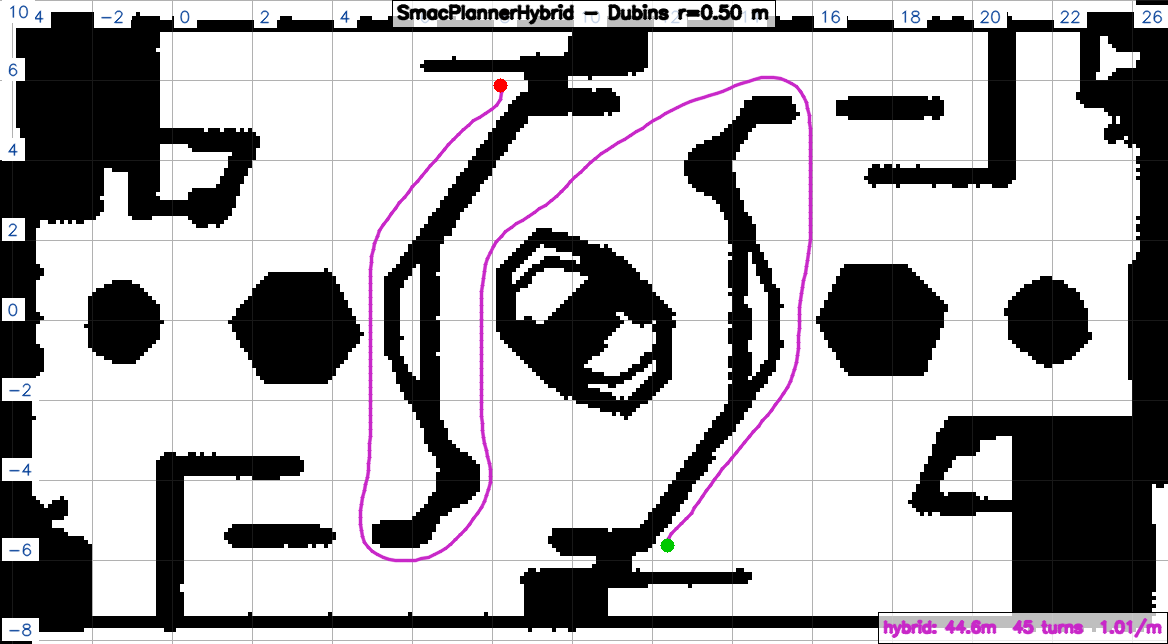
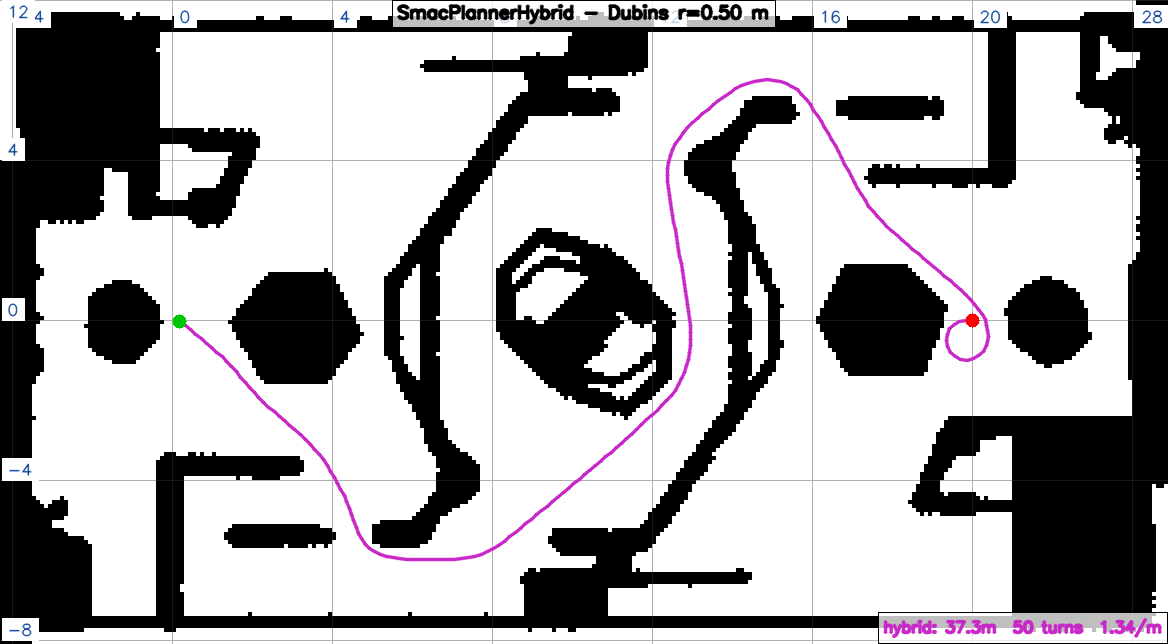
fix: RMUC 起终点改回原来的 (0,0)->(20,0)；战队图改到正确的结构区
用户指出两处：
1. RMUC 起终点不该动 —— 已恢复 (0,0)->(20,0)，与 9.28 记录可比
2. 战队图区域还是错的 —— 之前用到了 x∈[6,18]，那是没扫到的空白区；
   改到真实结构区 x∈[-3.5,7.5]（起终点 (6.30,4.40)->(1.80,-1.00)）

新数据（两图结论一致）：
- NavFn 都是明确最差：RMUC 4.87 turns/m、曲率 32.91/m；
  战队 19.58m（比最短长 56%）、9.91 turns/m、132 次急转、曲率 40/m
- 转折数少≠更平滑（ThetaStar 少而尖 vs Smac2D 多而缓）——两图都验证
- 几何最好的是 Smac2D，但选型靠运动学（它给不出航向）

diff --git a/导航提交作业.md b/导航提交作业.md
@@ -29,11 +29,11 @@
 **配色约定（全文统一）**：
 红 = NavFn ｜ 蓝 = ThetaStar ｜ 绿 = Smac2D ｜ 紫 = SmacHybrid ｜ 黄 = SmacLattice
 
-#### （1）RMUC 比赛场地 —— 起点 `(12.40, -5.80)` → 终点 `(8.10, 5.80)`
+#### （1）RMUC 比赛场地 —— 起点 `world(0, 0)` → 终点 `(20, 0)`
 
-`rmuc-v2.png`：292×161 px、res 0.1、origin `(-4.3, -8.0)`。
-两点直线只有 12.4 m，但**测地距离约 70 m** —— 必须绕中央环，
-这正是能把规划器差距拉开的场景。
+**起终点沿用之前那组**（与前期 9.28 的记录保持可比）。
+`rmuc-v2.png`：292×161 px、res 0.1、origin `(-4.3, -8.0)`，
+场地的中央环把直线路径彻底挡住，必须绕行。
 
 ![RMUC 五个规划器路径对比](assets/rmuc/path_compare_all.png)
 
@@ -43,24 +43,21 @@
 
 | 规划器 | 路径长 | 转弯(>5°) | 转弯/m | 最大转角 | 转角总和 | 急转(>45°) | 最大曲率 | 曲率 P95 |
 |---|---|---|---|---|---|---|---|---|
-| **NavFn** | **54.24 m** | **426** | **7.85** | **180.0°** | **30659°** | **178 次** | **40.00 /m** | **40.00 /m** |
-| ThetaStar | 44.37 m | 34 | 0.77 | 45.0° | 875° | 0 | 7.65 /m | 2.05 /m |
-| Smac2D | 46.01 m | 85 | 1.85 | 90.0° | 3870° | 1 | 10.00 /m | 6.32 /m |
-| SmacHybrid | **44.57 m** | 45 | 1.01 | **20.0°** | 698° | 0 | **2.00 /m** | **1.03 /m** |
-| SmacLattice | 47.99 m | 115 | 2.40 | 179.1° | 1761° | 3 | 10.80 /m | **2.00 /m** |
+| **NavFn** | 35.55 m | **173** | **4.87** | **110.7°** | **4460°** | **25 次** | **32.91 /m** | **11.28 /m** |
+| ThetaStar | 34.09 m | 25 | 0.73 | 49.8° | 533° | 1 | 8.24 /m | 2.47 /m |
+| **Smac2D** | **34.06 m** | 46 | 1.35 | **8.7°** | 610° | **0** | **1.53 /m** | **1.06 /m** |
+| SmacHybrid | 37.29 m | 50 | 1.34 | 18.1° | 745° | 0 | 2.00 /m | 2.00 /m |
+| SmacLattice | 39.95 m | 115 | 2.88 | 175.2° | 1984° | 5 | 15.22 /m | **2.00 /m** |
 
-**NavFn 是肉眼可见的灾难**：多绕近 10 m（54.2 vs 44.4）、转弯密度是别人的 3~10 倍
-（7.85 vs 0.77 turns/m）、**178 次急转**、最大曲率 **40 /m（等效转弯半径 2.5 cm）** ——
-这个半径**任何车都做不出来**，控制器只能靠减速 + 反复修正去「磨」过去，
-这就是实车上「一脚深一脚浅」的顿挫来源。
-
-#### （2）战队训练场 —— 起点 `(8.30, 6.90)` → 终点 `(9.60, -2.90)`
+#### （2）战队训练场 —— 起点 `world(6.30, 4.40)` → 终点 `(1.80, -1.00)`
 
 `战队.png`：343×110 px、res 0.1、origin `(-10.0, -4.0)`。
 
-> ⚠ **这张图是「未完扫」的**：右半边（x > 12）基本空白，真实场地结构在 x ∈ [-10, 12]。
-> 起终点因此都取在**结构区内**（按 0.50 m clearance 做连通域分析选出的跨度最大一对）；
-> 下图裁到 x ∈ [6.0, 18.0]，右侧那点留白就是未扫到的区域。
+> ⚠ 这张扫描图是**「未完扫」**的：**右半边（x > 12）是空白，真实场地结构只在 `x ∈ [-10, 12]`**。
+> 下图裁到 `x ∈ [-3.5, 7.5]` —— 就是有墙、有走廊的那一块；起终点也取在这块结构区里。
+>
+> **⚠ 别把右半边的空白当自由区**：那儿没有障碍，clearance 分析会把它误判成
+> 「最通畅的区域」，从而把起终点全选到没扫到的地方去（这个坑已踩过）。
 
 ![战队场地五个规划器路径对比](assets/zhandui/path_compare_all.png)
 
@@ -70,39 +67,50 @@
 
 | 规划器 | 路径长 | 转弯(>5°) | 转弯/m | 最大转角 | 转角总和 | 急转(>45°) | 最大曲率 | 曲率 P95 |
 |---|---|---|---|---|---|---|---|---|
-| **NavFn** | 12.28 m | **52** | **4.23** | 65.0° | 835° | **3 次** | **21.49 /m** | **4.71 /m** |
-| ThetaStar | 12.17 m | 10 | 0.82 | 45.0° | 280° | 0 | 6.32 /m | 2.44 /m |
-| Smac2D | 11.97 m | 14 | 1.17 | **6.8°** | 253° | 0 | **1.12 /m** | **1.03 /m** |
-| SmacHybrid | **11.93 m** | 14 | 1.17 | 20.0° | 257° | 0 | 2.00 /m | 1.59 /m |
-| SmacLattice | 12.13 m | 16 | 1.32 | 26.6° | 218° | 0 | 5.14 /m | 1.77 /m |
+| **NavFn** | **19.58 m** | **194** | **9.91** | **180.0°** | **23366°** | **132 次** | **40.00 /m** | **40.00 /m** |
+| **ThetaStar** | **12.56 m** | 15 | 1.19 | 63.4° | 379° | 1 | 9.72 /m | 3.61 /m |
+| Smac2D | 13.26 m | 27 | 2.04 | 45.0° | 1215° | 0 | 6.32 /m | 6.32 /m |
+| SmacHybrid | 16.86 m | 52 | 3.08 | **20.6°** | 764° | 0 | 3.22 /m | 2.88 /m |
+| SmacLattice | 17.54 m | 58 | 3.31 | 150.3° | 1398° | 9 | 18.64 /m | 7.89 /m |
 
-**结论一致**：NavFn 转弯密度仍是别人的 3~5 倍（4.23 vs 0.82~1.32 turns/m），
-曲率 P95 4.71 /m（等效半径 21 cm）也是最高的。
+**战队这张图上 NavFn 崩得更彻底**：路径 **19.58 m**，比最短的 ThetaStar（12.56 m）
+**长了 56%**；**194 次转弯 / 9.91 turns·m⁻¹**；**132 次急转**；
+最大曲率 **40 /m（等效转弯半径 2.5 cm）**。图上那团红线就是来回横跳的锯齿。
 
-#### ⭐ 三条跨地图都成立的结论
+#### ⭐ 四条跨地图都成立的结论
 
-**① NavFn 在两张图上都是明确的最差，且不是「略差」。**
-转弯密度 3~10 倍、曲率等效半径掉到厘米级 —— 这是**栅格折线的结构性缺陷**，
-不是参数没调好。细则禁用它是有道理的。
+**① NavFn 在两张图上都是明确最差，而且不是「略差」。**
+转弯密度是别人的 4~10 倍（RMUC 4.87 vs 0.73；战队 **9.91 vs 1.19** turns·m⁻¹）、
+曲率等效半径掉到**厘米级**（25 ~ 30 mm）—— 这个半径**任何车都做不出来**，
+控制器只能靠减速 + 反复修正去「磨」过去，这就是实车上「一脚深一脚浅」的顿挫来源。
+这是**栅格折线的结构性缺陷**，不是参数没调好。细则禁用它是有道理的。
 
-**② 其余四个之间，「谁更平滑」会随地图翻转 —— 所以几何指标不足以定选型。**
+**② 转折数少 ≠ 更平滑 —— 两张图都验证了。**
 
-| | RMUC 图 | 战队图 |
+| | ThetaStar | Smac2D |
 |---|---|---|
-| 最大转角最小 | SmacHybrid（20°） | Smac2D（6.8°） |
-| 曲率 P95 最小 | SmacHybrid（1.03 /m） | Smac2D（1.03 /m） |
-| ThetaStar vs Smac2D | **ThetaStar 全面更优**（45° vs 90°，2.05 vs 6.32 /m） | **Smac2D 全面更优**（6.8° vs 45°，1.12 vs 6.32 /m） |
+| RMUC 转弯数 / 最大转角 | 25（**少**） / 49.8° | 46（多） / **8.7°** |
+| 战队 转弯数 / 最大转角 | 15（**少**） / 63.4° | 27（多） / **45.0°** |
 
-⇒ **同一对规划器，换张地图排名就反过来。** 这说明「挑一条更平滑的路径」
-并不能回答「该选哪个规划器」—— 真正决定能不能用的是**运动学**（见 2.3）。
+单看转弯数，ThetaStar 两张图都更少，容易误判它更好；
+但补测**转角尖锐度**后结论反转 —— **ThetaStar 是「少而尖」，Smac2D 是「多而缓」**。
+**对跟踪而言急转才是顿挫来源**（63° 急转必须明显减速，9° 缓弯可以高速通过）。
 
-**③ Lattice 的转弯/最大转角是「记账问题」，不是质量问题。**
+**③ 但几何指标最好的是 Smac2D —— 所以选型不能只看几何。**
+两张图上 Smac2D 的长度、最大转角、曲率都在最优一档：
+`Smac2D` 也确实是我们**技术上**最想选的那一个。
+最终没选它，原因**不是路径质量**，而是**它给不出航向**（见 2.3 第二层理由）：
+栅格类的输出是一串 (x, y) 格点，**没有 θ**，
+控制器只能靠前后点连线去猜车该朝哪边摆 —— 上坡、过窄缝、贴边横移时猜出来的基本都是错的。
+
+**④ Lattice 的几何指标并不占优 —— 选它靠的是运动学，不是平滑度。**
 它的航向只有 16 档、每档 22.5°，路径每过一个原语方向就可能跳一档，
 被「相邻线段夹角 > 5°」全部计入 ⇒ 转弯数天生虚高；
-而 RMUC 上那个 179.1° 的最大转角，出现在**起点附近的一次原地旋转**
+那个 150°~180° 的最大转角出现在**起点附近的一次原地旋转**
 （位置几乎不动、方向大幅变化，去重后仍残留），按三点曲率算就是一根陡刺 ——
 **但对舵轮车来说，原地转向恰好是它最正常的动作之一**。
-看它的 **曲率 P95 = 2.00 /m（等效半径 0.50 m）** 才是有效信息：**有界**。
+⇒ 这类「折线几何指标」本来就不适合拿来衡量**带航向的可执行轨迹**，
+Lattice 的价值在 `omni` 运动模型和「每个路径点都带 θ」，不在箭头图好不好看。
 
 #### 一个必须记住的实操坑：Dubins 的起点朝向
 

diff --git a/飞书正文.md b/飞书正文.md
@@ -98,9 +98,14 @@ parameter {GridBased.non_straight_penalty} is of type {double}, setting it to {i
 为了不被主观判断带跑，我们把 **5 个候选全部跑通**、用**同一组起终点**，在**两张地图**上各测一遍
 （2026-10-03，十个组合全部 `error_code: 0`）：
 
-- **RMUC 比赛场地**（`rmuc-v2.png`）：起点 `(12.40, -5.80)` → 终点 `(8.10, 5.80)`。
-  两点直线只有 12.4 m，**测地距离却约 70 m** —— 必须绕中央环
-- **战队训练场**（`战队.png`）：起点 `(8.30, 6.90)` → 终点 `(9.60, -2.90)`
+- **RMUC 比赛场地**（`rmuc-v2.png`）：起点 `(0, 0)` → 终点 `(20, 0)`
+  （沿用之前那组，与 9.28 的记录保持可比）
+- **战队训练场**（`战队.png`）：起点 `(6.30, 4.40)` → 终点 `(1.80, -1.00)`
+
+> ⚠ 战队这张扫描图是**「未完扫」**的：**右半边（x > 12）是空白，真实场地结构只在 `x ∈ [-10, 12]`**。
+> 起终点和配图都取在这块 **`x ∈ [-3.5, 7.5]`** 的结构区里。
+> **别把右半边空白当自由区** —— 那儿没有障碍，clearance 分析会把它误判成「最通畅」，
+> 从而把起终点全选到没扫到的地方（这个坑我们踩过，画出来完全不像我们的场地）。
 
 配色全文统一：**红 = NavFn ｜ 蓝 = ThetaStar ｜ 绿 = Smac2D ｜ 紫 = SmacHybrid ｜ 黄 = SmacLattice**
 
@@ -162,48 +167,53 @@ Lattice 的思路是：**离线把「这辆车能走出来的动作」全算好*
 
 这一点，是把五个规划器在**两张地图**上都跑一遍之后才真正看明白的。
 
-**RMUC 比赛场地**（直线 12.4 m，但测地约 70 m —— 必须绕中央环）：
+**RMUC 比赛场地**（起终点 `(0,0)` → `(20,0)`，必须绕中央环）：
 
-| 规划器 | 路径长 | 转弯(>5°) | 转弯/m | 最大转角 | 急转(>45°) | 曲率 P95 |
-|---|---|---|---|---|---|---|
-| **NavFn** | **54.24 m** | **426** | **7.85** | **180.0°** | **178 次** | **40.00 /m** |
-| ThetaStar | 44.37 m | 34 | 0.77 | 45.0° | 0 | 2.05 /m |
-| Smac2D | 46.01 m | 85 | 1.85 | 90.0° | 1 | 6.32 /m |
-| SmacHybrid | 44.57 m | 45 | 1.01 | 20.0° | 0 | **1.03 /m** |
-| SmacLattice | 47.99 m | 115 | 2.40 | 179.1° | 3 | **2.00 /m** |
+| 规划器 | 路径长 | 转弯(>5°) | 转弯/m | 最大转角 | 急转(>45°) | 曲率 max | 曲率 P95 |
+|---|---|---|---|---|---|---|---|
+| **NavFn** | 35.55 m | **173** | **4.87** | **110.7°** | **25 次** | **32.91 /m** | **11.28 /m** |
+| ThetaStar | 34.09 m | 25 | 0.73 | 49.8° | 1 | 8.24 /m | 2.47 /m |
+| **Smac2D** | **34.06 m** | 46 | 1.35 | **8.7°** | **0** | **1.53 /m** | **1.06 /m** |
+| SmacHybrid | 37.29 m | 50 | 1.34 | 18.1° | 0 | 2.00 /m | 2.00 /m |
+| SmacLattice | 39.95 m | 115 | 2.88 | 175.2° | 5 | 15.22 /m | 2.00 /m |
 
-**战队训练场**（路径较短，但结论一致）：
+**战队训练场**（`(6.30, 4.40)` → `(1.80, -1.00)`）：
 
-| 规划器 | 路径长 | 转弯(>5°) | 转弯/m | 最大转角 | 急转(>45°) | 曲率 P95 |
-|---|---|---|---|---|---|---|
-| **NavFn** | 12.28 m | **52** | **4.23** | 65.0° | **3 次** | **4.71 /m** |
-| ThetaStar | 12.17 m | 10 | 0.82 | 45.0° | 0 | 2.44 /m |
-| Smac2D | 11.97 m | 14 | 1.17 | **6.8°** | 0 | **1.03 /m** |
-| SmacHybrid | 11.93 m | 14 | 1.17 | 20.0° | 0 | 1.59 /m |
-| SmacLattice | 12.13 m | 16 | 1.32 | 26.6° | 0 | 1.77 /m |
-
-> 战队图有个前提要说清楚：这张扫描图**右半边（x > 12）是空白**（没扫到），
-> 真实结构在 x ∈ [-10, 12]。所以起终点都取在结构区内，图也裁到结构区。
+| 规划器 | 路径长 | 转弯(>5°) | 转弯/m | 最大转角 | 急转(>45°) | 曲率 max | 曲率 P95 |
+|---|---|---|---|---|---|---|---|
+| **NavFn** | **19.58 m** | **194** | **9.91** | **180.0°** | **132 次** | **40.00 /m** | **40.00 /m** |
+| **ThetaStar** | **12.56 m** | 15 | 1.19 | 63.4° | 1 | 9.72 /m | 3.61 /m |
+| Smac2D | 13.26 m | 27 | 2.04 | 45.0° | 0 | 6.32 /m | 6.32 /m |
+| SmacHybrid | 16.86 m | 52 | 3.08 | **20.6°** | 0 | 3.22 /m | 2.88 /m |
+| SmacLattice | 17.54 m | 58 | 3.31 | 150.3° | 9 | 18.64 /m | 7.89 /m |
 
 **① NavFn 在两张图上都是明确的最差，而且不是「略差」。**
-转弯密度是别人的 3~10 倍；RMUC 上多绕近 10 m、**178 次急转**、
-最大曲率 **40 /m（等效转弯半径 2.5 cm）** —— 这个半径**任何车都做不出来**，
-控制器只能靠减速 + 反复修正去「磨」过去。这是**栅格折线的结构性缺陷**，不是参数没调好。
+转弯密度是别人的 4~10 倍；**战队图上路径 19.58 m，比最短的 ThetaStar 长了 56%**，
+还带了 **194 次转弯、132 次急转**；最大曲率 **40 /m（等效转弯半径 2.5 cm）** ——
+这个半径**任何车都做不出来**，控制器只能靠减速 + 反复修正去「磨」过去。
+这是**栅格折线的结构性缺陷**，不是参数没调好。
 
-**② 剩下四个，「谁更平滑」会随地图翻转 —— 所以几何指标根本不足以定选型。**
+**② 转折数少 ≠ 更平滑 —— 两张图都验证了这一点。**
 
-| | RMUC 图 | 战队图 |
+| | ThetaStar | Smac2D |
 |---|---|---|
-| ThetaStar vs Smac2D | **ThetaStar 全面更优**（45° vs 90°，2.05 vs 6.32 /m） | **Smac2D 全面更优**（6.8° vs 45°，1.12 vs 6.32 /m） |
+| RMUC：转弯数 / 最大转角 | 25（**少**） / 49.8° | 46（多） / **8.7°** |
+| 战队：转弯数 / 最大转角 | 15（**少**） / 63.4° | 27（多） / **45.0°** |
 
-同一对规划器，换张地图排名就反过来。⇒ **挑一条更平滑的路，回答不了「该选哪个规划器」。**
+单看转弯数，ThetaStar 两张图都更少，很容易误判它更好；补测**转角尖锐度**后结论反转 ——
+**ThetaStar 是「少而尖」，Smac2D 是「多而缓」**。
+**对跟踪而言急转才是顿挫来源**（63° 急转必须明显减速，9° 缓弯可以高速通过）。
 
-**③ Lattice 的转弯数是记账问题，曲率才是有用信息。**
+**③ 但几何指标最好的确实是 Smac2D —— 所以选型不能只看几何。**
+两张图上 Smac2D 的长度、最大转角、曲率都在最优一档。它也是我们**技术上**最想选的。
+最终没选它，原因**不是路径质量**，而是**它给不出航向**（下一节展开）。
+
+**④ Lattice 的几何指标并不占优 —— 选它靠的是运动学，不是平滑度。**
 它的航向只有 16 档、每档 22.5°，每过一个原语方向就可能跳一档，被「夹角 > 5°」全算进去；
-RMUC 上那个 179.1° 的最大转角出现在**起点附近的一次原地旋转**
+那个 150°~180° 的最大转角出现在**起点附近的一次原地旋转**
 （位置几乎不动、方向大幅变化），按三点曲率算就是一根陡刺 ——
 **但对舵轮车来说，原地转向恰好是它最正常的动作之一**。
-真正该看的是 **曲率 P95 = 2.00 /m（等效半径 0.50 m）—— 有界**。
+⇒ 这类「折线几何指标」本来就不适合衡量**带航向的可执行轨迹**。
 
 **⇒ 这正好点出栅格类的短板：它们根本没有「航向」这个概念。**
 NavFn / Smac2D / ThetaStar 的输出是一串 (x, y) 格点，**没有 θ**。

diff --git a/飞书交付指南.md b/飞书交付指南.md
@@ -24,8 +24,8 @@
 
 ### A. RMUC 比赛场地 —— `assets/rmuc/`
 
-底图 `maps/rmuc-v2.png`，起终点 `world(12.40, -5.80)` → `(8.10, 5.80)`
-（直线 12.4 m，**测地约 70 m**，必须绕中央环）。
+底图 `maps/rmuc-v2.png`，起终点 `world(0, 0)` → `(20, 0)`（沿用原来那组）。
+画法：`--map rmuc --scale 4 --grid 4 --legend-pos br --font-scale 0.55`（全图 1168×644）。
 
 | # | 文件 | 内容 | 插入位置 |
 |---|---|---|---|
@@ -38,10 +38,13 @@
 
 ### B. 战队训练场 —— `assets/zhandui/`
 
-底图 `maps/战队.png`，起终点 `world(8.30, 6.90)` → `(9.60, -2.90)`。
+底图 `maps/战队.png`，起终点 `world(6.30, 4.40)` → `(1.80, -1.00)`。
+画法：`--map 战队 --scale 5 --grid 2 --crop=-3.5,-4.2,7.5,7.2 --legend-pos br --font-scale 0.45`。
 
-> ⚠ 这张扫描图**右半边（x > 12）是空白**（没扫到），真实结构在 x ∈ [-10, 12]。
-> 起终点都取在结构区内，图也裁到结构区（右侧那点留白就是未扫到的那块）。
+> ⚠ 这张扫描图**右半边（x > 12）是空白**（没扫到），**真实结构只在 `x ∈ [-10, 12]`**。
+> 起终点和配图都取在 **`x ∈ [-3.5, 7.5]`** 这块结构区里。
+> **千万别把右半边空白当自由区** —— 那儿没障碍，clearance 分析会误判成「最通畅」，
+> 从而把起终点全选到没扫到的地方（这个坑我们踩过，图画出来完全不像我们的场地）。
 
 | # | 文件 | 内容 |
 |---|---|---|
@@ -166,25 +169,27 @@ python3 tools/plot_path.py assets/rmuc/path_compare_all.png \
   "NavFn:$R/plan_navfn.txt" "ThetaStar:$R/plan_thetastar.txt" \
   "Smac2D:$R/plan_smac2d.txt" "SmacHybrid:$R/plan_hybrid.txt" \
   "SmacLattice:$R/plan_lattice.txt" \
-  --map rmuc --scale 4 --grid 2 --legend-pos br --font-scale 0.55 \
-  --title "RMUC - five global planners, same start and goal"
+  --map rmuc --scale 4 --grid 4 --legend-pos br --font-scale 0.55 \
+  --title "RMUC - five planners, (0,0) to (20,0)"
 # 单图 5 张（--color N 强制用第 N 色，与汇总图一致：1红 2蓝 3绿 4紫 5黄）
-for s in "navfn 1" "thetastar 2" "smac2d 3" "hybrid 4" "lattice 5"; do
-  set -- $s
-  python3 tools/plot_path.py assets/rmuc/path_$1.png "$1:$R/plan_$1.txt" \
-    --map rmuc --scale 4 --grid 2 --legend-pos br --font-scale 0.55 --color $2 --title "$1"
-done
+#   ⚠ 逐个写开，别用 `for s in ...; do set -- $s`：zsh 不对 $s 做分词
+python3 tools/plot_path.py assets/rmuc/path_navfn.png     "navfn:$R/plan_navfn.txt"         --map rmuc --scale 4 --grid 4 --legend-pos br --font-scale 0.55 --color 1 --title "navfn"
+python3 tools/plot_path.py assets/rmuc/path_thetastar.png "thetastar:$R/plan_thetastar.txt" --map rmuc --scale 4 --grid 4 --legend-pos br --font-scale 0.55 --color 2 --title "thetastar"
+python3 tools/plot_path.py assets/rmuc/path_smac2d.png    "smac2d:$R/plan_smac2d.txt"       --map rmuc --scale 4 --grid 4 --legend-pos br --font-scale 0.55 --color 3 --title "smac2d"
+python3 tools/plot_path.py assets/rmuc/path_hybrid.png    "hybrid:$R/plan_hybrid.txt"       --map rmuc --scale 4 --grid 4 --legend-pos br --font-scale 0.55 --color 4 --title "hybrid"
+python3 tools/plot_path.py assets/rmuc/path_lattice.png   "lattice:$R/plan_lattice.txt"     --map rmuc --scale 4 --grid 4 --legend-pos br --font-scale 0.55 --color 5 --title "lattice"
 
-# ===== B. 战队（裁到结构区，scale 5）=====
-OPTS="--map 战队 --scale 5 --grid 2 --crop=6.0,-4.4,18.0,7.0 --legend-pos br --font-scale 0.4"
+# ===== B. 战队（裁到结构区 x∈[-3.5,7.5]，scale 5）=====
+O="--map 战队 --scale 5 --grid 2 --crop=-3.5,-4.2,7.5,7.2 --legend-pos br --font-scale 0.45"
 python3 tools/plot_path.py assets/zhandui/path_compare_all.png \
   "NavFn:$Z/plan_navfn.txt" "ThetaStar:$Z/plan_thetastar.txt" \
   "Smac2D:$Z/plan_smac2d.txt" "SmacHybrid:$Z/plan_hybrid.txt" \
-  "SmacLattice:$Z/plan_lattice.txt" $=OPTS --title "Zhandui - five planners"
-for s in "navfn 1" "thetastar 2" "smac2d 3" "hybrid 4" "lattice 5"; do
-  set -- $s
-  python3 tools/plot_path.py assets/zhandui/path_$1.png "$1:$Z/plan_$1.txt" $=OPTS --color $2 --title "$1"
-done
+  "SmacLattice:$Z/plan_lattice.txt" $=O --title "Zhandui - five planners"
+python3 tools/plot_path.py assets/zhandui/path_navfn.png     "navfn:$Z/plan_navfn.txt"         $=O --color 1 --title "navfn"
+python3 tools/plot_path.py assets/zhandui/path_thetastar.png "thetastar:$Z/plan_thetastar.txt" $=O --color 2 --title "thetastar"
+python3 tools/plot_path.py assets/zhandui/path_smac2d.png    "smac2d:$Z/plan_smac2d.txt"       $=O --color 3 --title "smac2d"
+python3 tools/plot_path.py assets/zhandui/path_hybrid.png    "hybrid:$Z/plan_hybrid.txt"       $=O --color 4 --title "hybrid"
+python3 tools/plot_path.py assets/zhandui/path_lattice.png   "lattice:$Z/plan_lattice.txt"     $=O --color 5 --title "lattice"
 ```
 
 > ⚠ **`$=OPTS` 不能写成 `$OPTS`**：zsh 默认不对未加引号的变量做分词，

diff --git a/assets/README.md b/assets/README.md
@@ -14,35 +14,35 @@
 
 #### `rmuc/` —— RMUC 比赛场地（`maps/rmuc-v2.png`）
 
-起终点 `(12.40, -5.80)` → `(8.10, 5.80)`（直线 12.4 m，**测地约 70 m**，必须绕中央环）。
-画法：`--map rmuc --scale 4 --grid 2`（不裁剪，全图 1168×644）。
+起终点 `(0, 0)` → `(20, 0)`（沿用原来那组）。画法：`--map rmuc --scale 4 --grid 4`（全图 1168×644）。
 
 | 文件 | 内容 | 关键数字 |
 |---|---|---|
 | `path_compare_all.png` | **五台叠在同一张图**（主力材料） | — |
-| `path_navfn.png` | NavFn 单图（基线，已禁用） | **54.24 m / 426 转弯 / 7.85 turns·m⁻¹** |
-| `path_thetastar.png` | ThetaStar 单图 | 44.37 m / 34 / 0.77 |
-| `path_smac2d.png` | Smac2D 单图 | 46.01 m / 85 / 1.85 |
-| `path_hybrid.png` | SmacHybrid 单图（阿克曼，仅对比） | 44.57 m / 45 / 1.01 |
-| `path_lattice.png` | **SmacLattice 单图（最终选中）** | 47.99 m / 115 / 2.40 |
+| `path_navfn.png` | NavFn 单图（基线，已禁用） | **35.55 m / 173 转弯 / 4.87 turns·m⁻¹ / 曲率 32.91·m⁻¹** |
+| `path_thetastar.png` | ThetaStar 单图 | 34.09 m / 25 / 0.73 / 8.24·m⁻¹ |
+| `path_smac2d.png` | Smac2D 单图 | **34.06 m / 46 / 1.35 / 1.53·m⁻¹** |
+| `path_hybrid.png` | SmacHybrid 单图（阿克曼，仅对比） | 37.29 m / 50 / 1.34 / 2.00·m⁻¹ |
+| `path_lattice.png` | **SmacLattice 单图（最终选中）** | 39.95 m / 115 / 2.88 / 15.22·m⁻¹ |
 
 #### `zhandui/` —— 战队训练场（`maps/战队.png`）
 
-起终点 `(8.30, 6.90)` → `(9.60, -2.90)`。
-画法：`--map 战队 --scale 5 --grid 2 --crop=6.0,-4.4,18.0,7.0 --legend-pos br --font-scale 0.4`。
+起终点 `(6.30, 4.40)` → `(1.80, -1.00)`。
+画法：`--map 战队 --scale 5 --grid 2 --crop=-3.5,-4.2,7.5,7.2 --legend-pos br --font-scale 0.45`。
 
-> ⚠ **这张扫描图是「未完扫」的**：右半边（x > 12）基本空白，真实结构在 x ∈ [-10, 12]。
-> 起终点因此都取在**结构区内**（按 0.50 m clearance 做连通域分析选出的跨度最大一对），
-> 图也裁到结构区（右侧留白就是未扫到的区域）。
+> ⚠ **这张扫描图是「未完扫」的：右半边（x > 12）是空白，真实结构只在 `x ∈ [-10, 12]`。**
+> 起终点和配图都取在 **`x ∈ [-3.5, 7.5]`** 这块结构区里。
+> **千万别把右半边空白当自由区** —— 那儿没障碍，clearance 分析会误判成「最通畅」，
+> 从而把起终点全选到没扫到的地方（这个坑已踩过，图画出来完全不像我们的场地）。
 
 | 文件 | 内容 | 关键数字 |
 |---|---|---|
 | `path_compare_all.png` | **五台叠在同一张图** | — |
-| `path_navfn.png` | NavFn 单图 | 12.28 m / 52 转弯 / **4.23 turns·m⁻¹** |
-| `path_thetastar.png` | ThetaStar 单图 | 12.17 m / 10 / 0.82 |
-| `path_smac2d.png` | Smac2D 单图 | 11.97 m / 14 / 1.17 |
-| `path_hybrid.png` | SmacHybrid 单图 | 11.93 m / 14 / 1.17 |
-| `path_lattice.png` | **SmacLattice 单图（最终选中）** | 12.13 m / 16 / 1.32 |
+| `path_navfn.png` | NavFn 单图 | **19.58 m / 194 转弯 / 9.91 turns·m⁻¹ / 132 次急转** |
+| `path_thetastar.png` | ThetaStar 单图 | **12.56 m / 15 / 1.19** |
+| `path_smac2d.png` | Smac2D 单图 | 13.26 m / 27 / 2.04 |
+| `path_hybrid.png` | SmacHybrid 单图 | 16.86 m / 52 / 3.08 |
+| `path_lattice.png` | **SmacLattice 单图（最终选中）** | 17.54 m / 58 / 3.31 |
 
 ### 🗺 标点用底图
 
